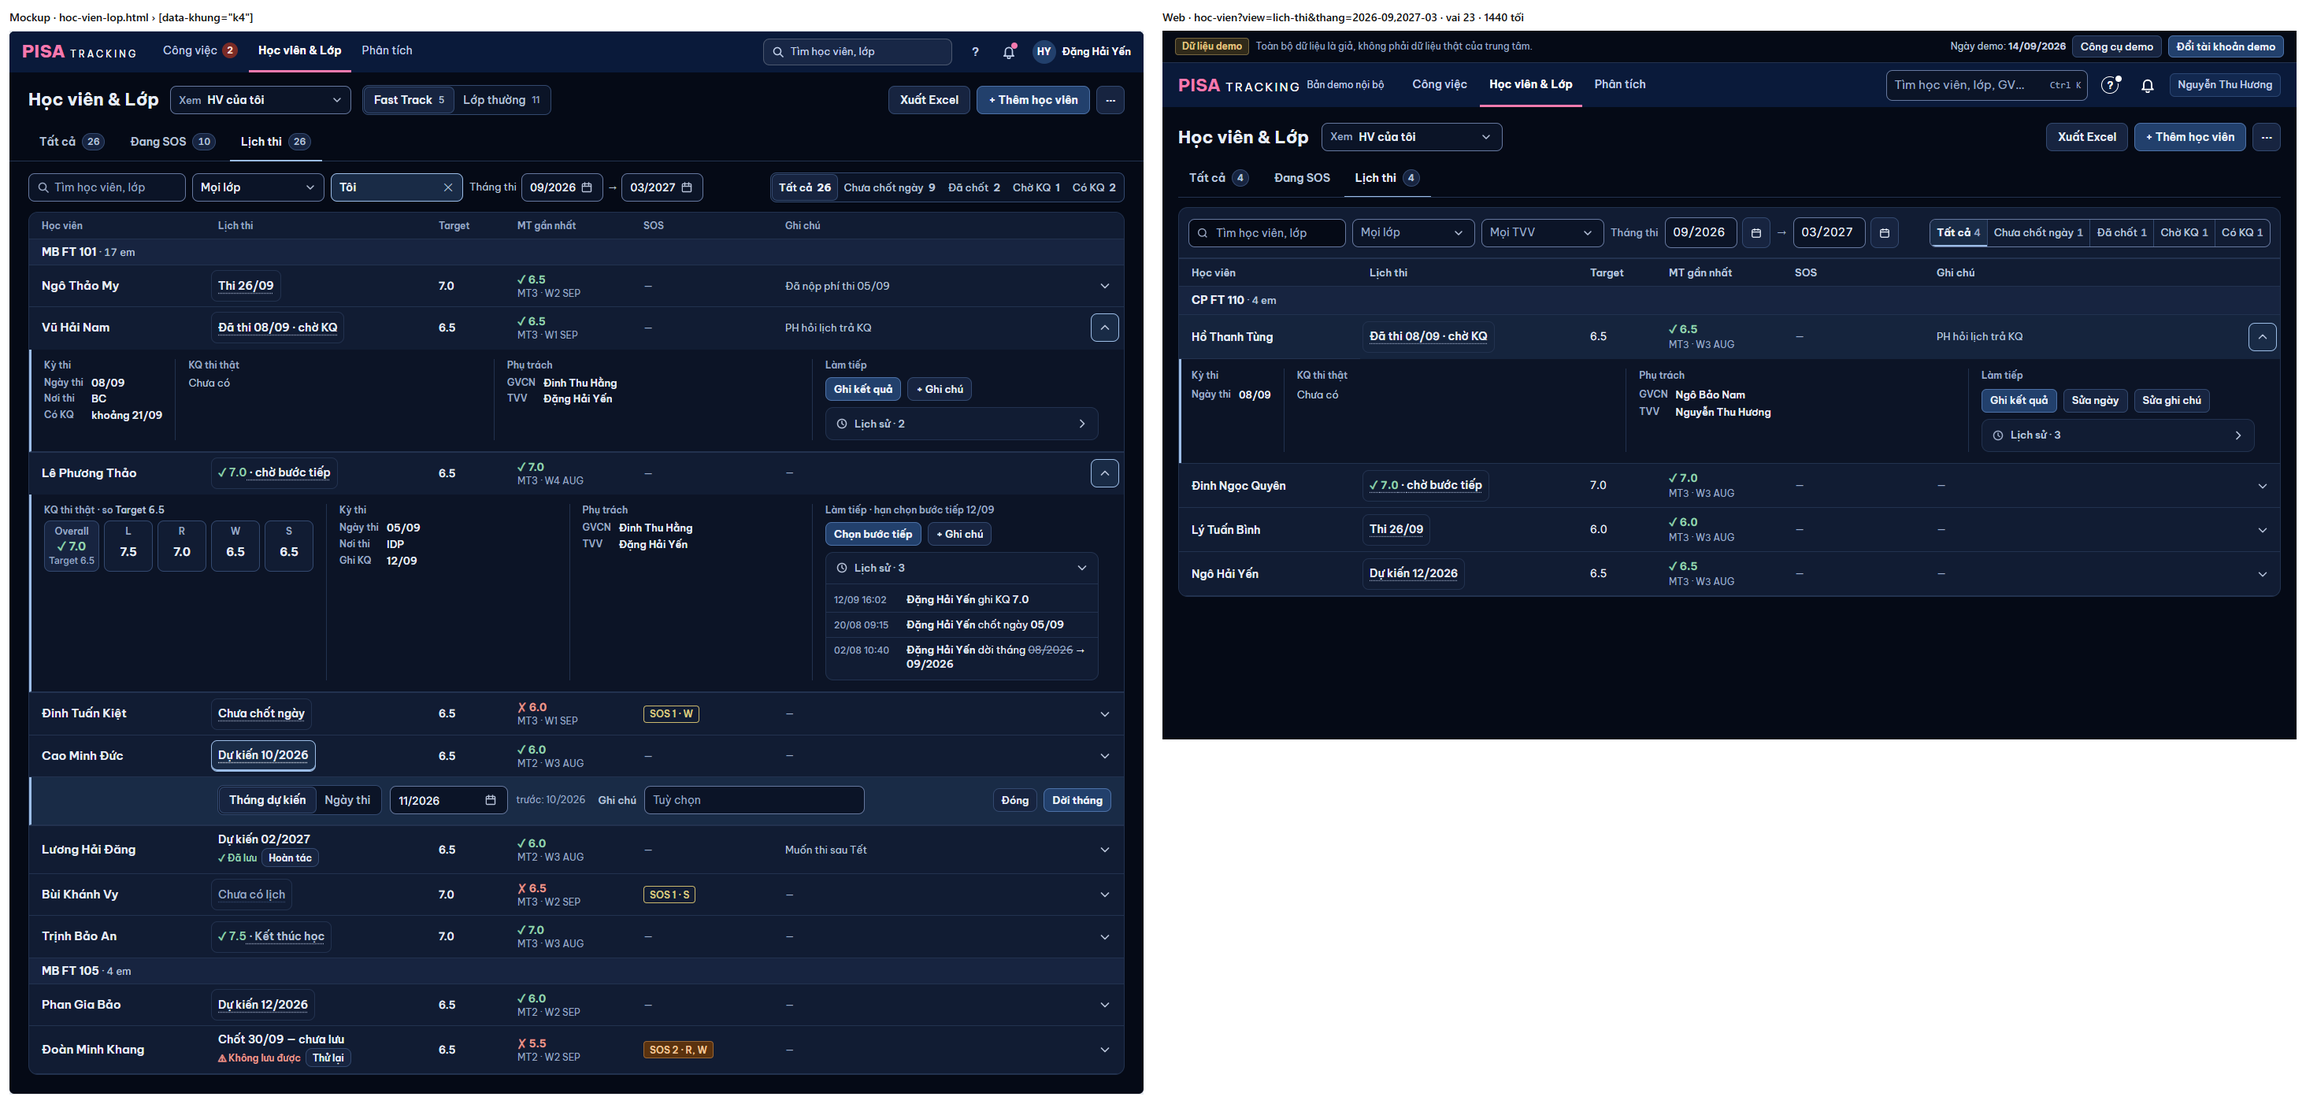
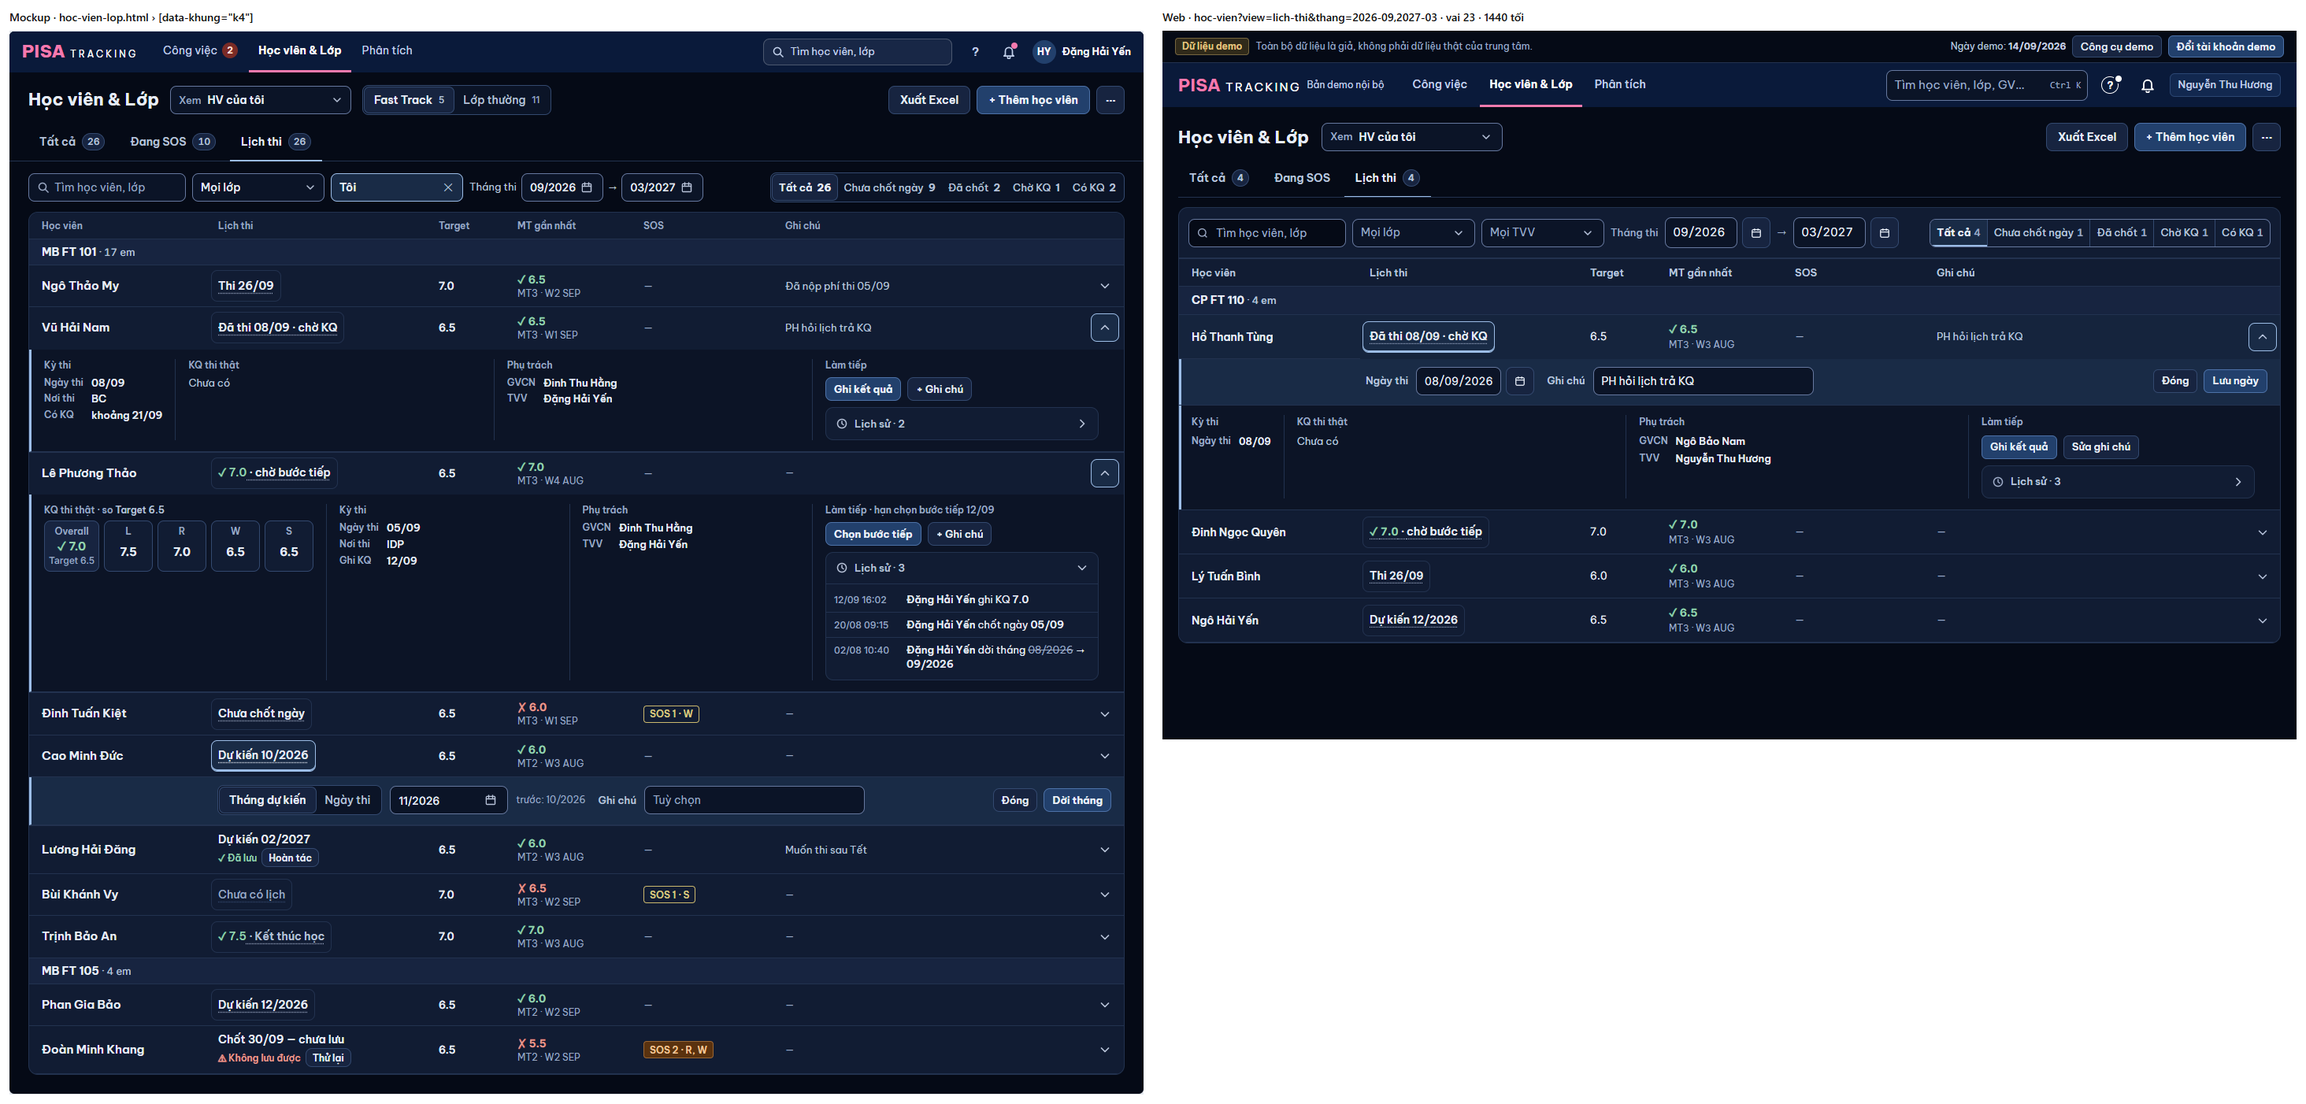
GD-13b sửa theo PTA rà #1704: Lịch sử có ghi KQ, chờ KQ một thao tác một chỗ, 375 "Đang SOS"
- lichSuLichThi: thêm nhật ký ghi KQ thi thật (cycle.thi_that) vào cùng câu, cùng chỉ mục — 0 câu thêm
- Chờ KQ: bấm ngày thi → hộp sửa ngày; Ghi kết quả ở Làm tiếp; bỏ nút "Sửa ngày" lặp
- 375: tab "Đang SOS" một tên như 1440
- Chụp lại cap-k4-co-kq / cap-k4-cho-kq / cap-k8b + zoom phần mở có KQ; khop-khac cập nhật

Changed region(s): [[0.4973, 0.3067, 0.9945, 0.5827]]

diff --git a/web/src/modules/students/HangLichThi.tsx b/web/src/modules/students/HangLichThi.tsx
@@ -29,7 +29,7 @@ export type KqThiThat = {
   kn: { L: number | null; R: number | null; W: number | null; S: number | null } | null; ngayKq: string | null;
 };
 export type CaseMoHang = { id: number; kyNang: string | null; sos: number | null; soPa: number };
-export type DongLichSu = { luc: string; ai: string | null; ketLuan: string | null; ngay: string | null; ghiChu: string | null };
+export type DongLichSu = { luc: string; ai: string | null; ketLuan: string | null; ngay: string | null; ghiChu: string | null; kq?: string | null };
 export type Hang = {
   studentId: number; cycleId: number | null; ten: string; ma: string; classId: number; classCode: string; thuong: boolean; gvcn: string | null; tvv: string | null;
   target: number | null; kck: boolean; standing: KetQuaVao | null;
@@ -76,7 +76,8 @@ export const laHop = (nut: ThaoTacLichThi) => MO_HOP.includes(nut);
 export function viecGiaTri(r: HangHien): ThaoTacLichThi | null {
   if (!r.coTheSua || !r.cycleId) return null;
   const { chinh, phu } = thaoTacLichThi(r.buoc, !r.thuong);
-  if (chinh && !laHop(chinh)) return chinh;   // chờ KQ → Ghi KQ, có KQ → Bước tiếp (panel Sau thi) — mockup K4 `data-hop="kq"`
+  /* Có KQ → Bước tiếp / Sửa KQ (panel Sau thi). Chờ KQ: giá trị là NGÀY thi → hộp sửa ngày; Ghi kết quả ở "Làm tiếp" (PTA rà #1704: một thao tác một chỗ). */
+  if (chinh && !laHop(chinh) && r.buoc !== 'cho-kq') return chinh;
   const ds = [chinh, ...phu].filter((x): x is ThaoTacLichThi => !!x);
   if (ds.some(laHop)) return r.buoc === 'chua-chot-ngay' || r.buoc === 'da-chot-ngay' || r.buoc === 'cho-kq' ? (r.coNgay ? 'sua-ngay' : 'chot-ngay') : r.lichThi.thang ? 'doi-thang' : 'dat-thang';
   return ds[0] ?? null;
@@ -237,7 +238,7 @@ export function HopLich({ r, nut, onHuy, onLuu, the }: { r: HangHien; nut: ThaoT
 }
 
 const CHU_KET_LUAN: Record<string, string> = {
-  'chot-ngay': t('chốt ngày'), 'chuyen-thang': t('dời tháng'), 'giu-thang': t('giữ tháng'), 'can-xac-nhan': t('chưa kết luận'), 'bo-lich': t('bỏ tháng thi'),
+  'chot-ngay': t('chốt ngày'), 'chuyen-thang': t('dời tháng'), 'ghi-kq': t('ghi KQ'), 'giu-thang': t('giữ tháng'), 'can-xac-nhan': t('chưa kết luận'), 'bo-lich': t('bỏ tháng thi'),
 };
 const mocLs = (x: DongLichSu, homNay: string) => (x.ngay ? (x.ngay.length === 7 ? nhanThang(x.ngay) : shortDate(x.ngay, homNay)) : null);
 
@@ -357,8 +358,6 @@ export function DaiMo({ r, hanh }: { r: HangHien; hanh: Hanh }) {
       {r.coTheSua && (
         <span className="lt-lam-n">
           {nutChinh && <button type="button" className="btn btn-sm nut-nho btn-primary" onClick={() => hanh.bam(r, nutChinh)}>{nutChinh === 'ghi-kq' ? t('Ghi kết quả') : t('Chọn bước tiếp')}</button>}
-          {/* Chờ KQ: giá trị lịch thi mở Ghi KQ → sửa ngày thi (đã thi nhầm ngày) giữ ở đây. */}
-          {nutChinh === 'ghi-kq' && <button type="button" className="btn btn-sm nut-nho" aria-expanded={hanh.hop?.id === r.studentId} onClick={() => hanh.bam(r, 'sua-ngay')}>{t('Sửa ngày')}</button>}
           <button type="button" className="btn btn-sm nut-nho" onClick={() => hanh.suaGhi(r.studentId)}>{r.luu?.ghiChu ? t('Sửa ghi chú') : `+ ${t('Ghi chú')}`}</button>
         </span>
       )}
@@ -366,7 +365,7 @@ export function DaiMo({ r, hanh }: { r: HangHien; hanh: Hanh }) {
         {canDu && day.loading ? <p className="ls-rong">{t('Đang tải')}…</p> : (
           <DsLichSu dong={ls.map((x, i) => ({
             key: i, gio: lucNgan(x.luc), ai: x.ai,
-            viec: x.ketLuan ? CHU_KET_LUAN[x.ketLuan] ?? x.ketLuan : t('đổi lịch'), moi: mocLs(x, homNay),
+            viec: x.ketLuan ? CHU_KET_LUAN[x.ketLuan] ?? x.ketLuan : t('đổi lịch'), moi: x.kq ?? mocLs(x, homNay),
             phu: [x.ghiChu ? `“${x.ghiChu}”` : null],
           }))} />
         )}

diff --git a/server/src/classes/lichThi.ts b/server/src/classes/lichThi.ts
@@ -198,9 +198,9 @@ export function danhSachLichThi(
   return { thang, rows };
 }
 
-export type DongLichSu = { luc: string; ai: string | null; ketLuan: string | null; ngay: string | null; ghiChu: string | null };
+export type DongLichSu = { luc: string; ai: string | null; ketLuan: string | null; ngay: string | null; ghiChu: string | null; kq?: string | null };
 /**
- * Lịch sử lịch thi của các lộ trình (mới trước, tối đa `gioiHan` dòng mỗi lộ trình) — theo lô. Hai câu, mỗi câu theo chỉ mục `idx_audit_entity` (entity_type, entity_id) —
+ * Lịch sử lịch thi của các lộ trình (đổi tháng / ngày · kết luận + ghi chú · ghi KQ thi thật; mới trước, tối đa `gioiHan` dòng mỗi lộ trình) — theo lô. Hai câu, mỗi câu theo chỉ mục `idx_audit_entity` (entity_type, entity_id) —
  * không OR giữa hai loại (Turso quét cả bảng nhật ký). Dùng cho dải mở hàng (3 dòng) và "Xem toàn bộ" (một lộ trình, khi bấm).
  */
 export function lichSuLichThi(cyc: readonly number[], gioiHan: number, dem?: Map<number, number>): Map<number, DongLichSu[]> {
@@ -212,9 +212,10 @@ export function lichSuLichThi(cyc: readonly number[], gioiHan: number, dem?: Map
           WHERE a.entity_type = 'lich_thi' AND a.entity_id IN (${ph}) AND a.action = 'lich_thi.luu'`).all(...lo) as any[],
       ...db().prepare(
         `SELECT a.id, a.entity_id, a.action, a.created_at, u.full_name AS ai, a.after_json FROM audit_logs a LEFT JOIN users u ON u.id = a.actor_user_id
-          WHERE a.entity_type = 'learning_cycle' AND a.entity_id IN (${ph}) AND a.action = 'cycle.update'
-            AND (json_extract(a.after_json, '$.exam_date') IS NOT json_extract(a.before_json, '$.exam_date')
-              OR json_extract(a.after_json, '$.exam_month') IS NOT json_extract(a.before_json, '$.exam_month'))`).all(...lo) as any[],
+          WHERE a.entity_type = 'learning_cycle' AND a.entity_id IN (${ph})
+            AND ((a.action = 'cycle.update' AND (json_extract(a.after_json, '$.exam_date') IS NOT json_extract(a.before_json, '$.exam_date')
+              OR json_extract(a.after_json, '$.exam_month') IS NOT json_extract(a.before_json, '$.exam_month')))
+              OR a.action = 'cycle.thi_that')`).all(...lo) as any[],   /* GD-13b: + ghi KQ thi thật (cùng câu, cùng chỉ mục) */
     ].sort((x, y) => y.id - x.id);
     for (const x of nk) {
       const ls = out.get(x.entity_id) ?? [];
@@ -224,6 +225,9 @@ export function lichSuLichThi(cyc: readonly number[], gioiHan: number, dem?: Map
       if (ls.length >= gioiHan) continue;
       if (x.action === 'lich_thi.luu') {
         ls.push({ luc: x.created_at, ai: x.ai ?? null, ketLuan: sau.ketLuan ?? null, ngay: null, ghiChu: sau.ghiChu ?? null });
+      } else if (x.action === 'cycle.thi_that') {
+        const kq = sau.khongThi ? 'Không thi' : sau.ovr != null ? Number(sau.ovr).toFixed(1) : null;
+        ls.push({ luc: x.created_at, ai: x.ai ?? null, ketLuan: 'ghi-kq', ngay: null, ghiChu: null, kq });
       } else {
         const moc = sau.exam_date ?? sau.exam_month ?? null;
         ls.push({ luc: x.created_at, ai: x.ai ?? null, ketLuan: moc ? null : 'bo-lich', ngay: moc, ghiChu: null });

diff --git a/web/src/modules/students/StudentsPage.tsx b/web/src/modules/students/StudentsPage.tsx
@@ -489,10 +489,10 @@ function TrangTheoLop({ vai }: { vai: VaiXemHocVien | null }) {
       </div>
       {dienThoai && (oXem || chonKhung) && <div className="flex items-center gap-2 [&>.doan]:flex-1">{oXem}{chonKhung}</div>}
 
-      {/* PTA rà #1690: 375 nhãn tab gọn (SOS · Phân công) để cả hàng tab thấy được, không cuộn mất "Tất cả". */}
+      {/* PTA rà #1690: 375 nhãn "Phân công" gọn. PTA rà #1704: "Đang SOS" một tên ở mọi cỡ màn (mockup K8b "Đang SOS 10"); hàng tab cuộn ngang khi chật. */}
       <HangTab panelId="hvl-vung" ariaLabel={t('Chế độ xem')} value={goc} onChange={doiGoc} tabs={[
         { key: 'tat-ca', label: t('Tất cả'), so: data && (!laVai || vaiTrang) ? soEm(goc0) : null },
-        ...(admin ? [] : [{ key: 'sos' as const, label: dienThoai ? 'SOS' : t('Đang SOS'), so: sos.data ? soEm(sosTat.map((r) => ({ id: r.studentId }))) : null }]),
+        ...(admin ? [] : [{ key: 'sos' as const, label: t('Đang SOS'), so: sos.data ? soEm(sosTat.map((r) => ({ id: r.studentId }))) : null }]),
         { key: 'lich-thi', label: t('Lịch thi'), so: data ? demLich : null },
         ...(coGocPc ? [{ key: 'phan-cong' as const, label: dienThoai ? t('Phân công') : t('Phân công GV') }] : []),
       ]} />

diff --git a/shared/i18n/en/gd13b.ts b/shared/i18n/en/gd13b.ts
@@ -12,6 +12,7 @@ export const EN_GD13B = {
   'Làm tiếp': 'Next',
   'Sửa ghi chú': 'Edit note',
   'đổi lịch': 'schedule changed',
+  'ghi KQ': 'recorded result',
   /* Hướng dẫn "?" — tab Lịch thi (GV · QL · TVV) */
   'Tab Lịch thi': 'Exam schedule tab',
   'Lọc theo trạng thái thi: <b>Tất cả</b> · <b>Chưa chốt ngày</b> · <b>Đã chốt</b> · <b>Chờ KQ</b> · <b>Có KQ</b>.': 'Filter by exam status: <b>All</b> · <b>Date not set</b> · <b>Date set</b> · <b>Awaiting result</b> · <b>Has result</b>.',

diff --git a/docs/anh/gd13b-lich-thi/khop-khac.md b/docs/anh/gd13b-lich-thi/khop-khac.md
@@ -15,6 +15,7 @@ Dữ liệu demo để đủ trạng thái: TVV 23 chốt ngày 26/09 cho một 
 | `web-k4-da-luu-tvv-1440-toi.png` | K4 hàng "✓ Đã lưu · Hoàn tác" | sau "Dời tháng" |
 | `web-k4-loi-luu-tvv-1440-toi.png` | K4 hàng "⚠ Không lưu được · Thử lại" | lưu lỗi (giả máy chủ 503), hộp đã đóng |
 | `zoom-hang-mo-ql-1440-toi.png` | — | zoom ×2: ô lịch thi, ⌄, ô điểm ✓ / ✗, phần mở |
+| `zoom-co-kq-tvv-1440-toi.png` | — | zoom ×2: phần mở có KQ — Lịch sử · 1 (ghi KQ), Chọn bước tiếp, + Ghi chú |
 
 ## 1. Truy vết khung → thành phần → ảnh
 
@@ -26,13 +27,13 @@ Dữ liệu demo để đủ trạng thái: TVV 23 chốt ngày 26/09 cho một 
 | 4 | K4 | Ô lịch thi MỘT dòng, không dòng phụ ("chốt ngày khi tới tháng", "hạn 21/09 · thi 12/09" bỏ) | `chuLich`: Chưa có lịch · Dự kiến 10/2026 · Chưa chốt ngày · Thi 26/09 · Đã thi 08/09 · chờ KQ · ✓ 7.0 · chờ bước tiếp · ✓ 7.5 · Kết thúc học | cap-k4-* | KHỚP |
 | 5 | K4 | Giá trị bấm được: viền nhạt + gạch chấm (nhận ra cả khi không rê), mở = viền nhấn + nền nhấn + vạch đáy | `.lt-gt-nut` (cùng số đo `.gt-lt`: cao 40, bo 8, lệch −5/−9) | cap-k4-co-kq, zoom | KHỚP |
 | 6 | K4 | Bấm giá trị → hộp MỘT hàng dưới hàng thẳng cột Lịch thi: đoạn **Tháng dự kiến \| Ngày thi** · ô (`ONgay`) · "trước: …" · Ghi chú · Đóng · nút chính | `HopLich` (một hộp làm đủ 4 việc lịch); chờ KQ chỉ "Ngày thi" | cap-k4-co-kq, cap-k8b | KHỚP |
-| 7 | K4 | Đã thi → giá trị mở panel Sau thi có sẵn (Ghi KQ · Bước tiếp · Sửa KQ) | `viecGiaTri` → `PanelSauThi` (không đổi panel); chờ KQ còn nút "Sửa ngày" ở Làm tiếp (thao tác cũ) | — | KHỚP |
+| 7 | K4 | Có KQ → giá trị mở panel Sau thi có sẵn (Bước tiếp · Sửa KQ); chờ KQ → giá trị là NGÀY thi nên mở hộp sửa ngày, **Ghi kết quả** ở Làm tiếp (PTA rà #1704: một thao tác một chỗ) | `viecGiaTri` | cap-k4-cho-kq | KHỚP (xem KHÁC 8) |
 | 8 | K4 | "✓ Đã lưu · Hoàn tác" (nút) và "⚠ Không lưu được · Thử lại" (nút) ngay ô, xanh / đỏ | `.lt-luu` + `btn nut-nho` cao 24; Hoàn tác 10 giây; lỗi khi hộp mở nằm ở hộp, chữ giữ | web-k4-da-luu, web-k4-loi-luu | KHỚP |
 | 9 | K4 | Phần mở **chưa thi**: MT gần nhất (6 ô, kỳ vọng, ↑↓ so MT trước) · Hỗ trợ đang mở · Test sắp tới · Phụ trách · Làm tiếp | `DaiMo` gd `chua-thi` | cap-k4-chua-thi | KHỚP |
 | 10 | K4 | Phần mở **chờ KQ** (lời 40): Kỳ thi · KQ thi thật "Chưa có" · Phụ trách · Làm tiếp (**Ghi kết quả** · + Ghi chú · Lịch sử) — không MT gần nhất / Test sắp tới | `DaiMo` gd `cho-kq` | cap-k4-cho-kq | KHỚP (xem KHÁC 1) |
 | 11 | K4 | Phần mở **có KQ**: KQ thi thật so Target (Overall + L R W S) · Kỳ thi (Ngày thi · Ghi KQ) · Phụ trách · Làm tiếp · "hạn chọn bước tiếp" (trung tính, [XM-4]) · **Chọn bước tiếp** | `DaiMo` gd `co-kq`; 4 ô thi thật đọc từ cột đã có trong câu | cap-k4-co-kq | KHỚP (xem KHÁC 1) |
 | 12 | K4, K8b | TRÊN HÀNG mọi em vẫn có MT gần nhất (lời 42) | `CotMt` mọi trạng thái + "MT3 · W3 AUG" | cap-k4-* | KHỚP |
-| 13 | K4 | Luôn có Phụ trách · **+ Ghi chú** (hiện luôn, không cần rê) · **Lịch sử · n** chuẩn (`LichSuGap` + `DsLichSu`, GD-4c) | "+ Ghi chú" / "Sửa ghi chú" bật ô Ghi chú của hàng; n đếm từ hai câu nhật ký đã đọc (0 câu thêm), mở > 3 dòng thì đọc đủ một lần | cap-k4-cho-kq | KHỚP |
+| 13 | K4 | Luôn có Phụ trách · **+ Ghi chú** (hiện luôn, không cần rê) · **Lịch sử · n** chuẩn (`LichSuGap` + `DsLichSu`, GD-4c) — ẩn chỉ khi n = 0 thật | "+ Ghi chú" (chưa có) / "Sửa ghi chú" (đã có) — cùng quy tắc ba trạng thái; n đếm từ hai câu nhật ký đã đọc, nay gồm cả **ghi KQ thi thật** (`cycle.thi_that`, cùng câu, cùng chỉ mục — 0 câu thêm); mở > 3 dòng thì đọc đủ một lần | cap-k4-co-kq, cap-k4-cho-kq, zoom-co-kq | KHỚP |
 | 14 | K4, K5 | Lọc trạng thái thi **Tất cả · Chưa chốt ngày · Đã chốt · Chờ KQ · Có KQ** ([XM-1] chủ SP duyệt) thay "Cần làm / Tất cả" | `.doan.lt-loc-thi`; số đếm từ dữ liệu đã nạp; số 0 không bấm; hàng vừa đổi trạng thái ở lại tới khi đổi lọc | cap-k4-* | KHỚP |
 | 15 | K4 | Hàng lọc: Tìm · Mọi lớp · Mọi TVV · Tháng thi từ → đến · phải: trạng thái thi — MỘT hàng ở 1440 | Tìm 200 · ô 156 · tháng 134 (ô gõ + nút lịch) · đoạn 13 px | cap-k4-* | KHỚP |
 | 16 | K4 | Không chữ đỏ "quá hạn" (cảnh báo ở Công việc TVV) — [XM-4] | bỏ `lt-qua`, bỏ "· 1 cần làm · 1 quá hạn" ở dải lớp | cap-k4-co-kq | KHỚP |
@@ -52,6 +53,8 @@ Dữ liệu demo để đủ trạng thái: TVV 23 chốt ngày 26/09 cho một 
 4. **375 dòng ghi chú**: mockup K8b không vẽ ghi chú trên thẻ; web giữ dòng "Ghi chú: …" khi em CÓ ghi chú (thông tin đã có trên thẻ trước PR, không mất); không có thì không có dòng.
 5. **Fast Track / Lớp thường ở đầu trang TVV**: mockup K4 vẽ đoạn FT / LT; web TVV không có đoạn này từ trước (ngoài phạm vi tab).
 6. **K5 chụp bằng GV bộ môn**: GVCN của lớp SỬA ĐƯỢC lịch thi theo quyền máy chủ (F15-5), nên mockup K5 "GV chỉ xem" khớp với GV không phụ trách lớp; không đổi quyền.
+8. **Chờ KQ — bấm giá trị**: mockup K4 cho "Chờ KQ" mở thẳng Ghi kết quả; PTA rà #1704 chốt một thao tác một chỗ: giá trị (ngày thi) → sửa ngày, Ghi kết quả ở "Làm tiếp". Không mất thao tác, không nút "Sửa ngày" lặp.
+9. **375 tab "Đang SOS"**: một tên ở mọi cỡ màn (trước PR 375 ghi "SOS"); số 0 / chưa nạp thì không badge.
 7. **V22**: mockup K4 "⚠ Không lưu được" — ⚠ ở đây là lỗi lưu (không phải hạn) nên giữ ⚠ đúng V22.
 
 ## 3. Thao tác TRƯỚC → SAU
@@ -61,8 +64,8 @@ Dữ liệu demo để đủ trạng thái: TVV 23 chốt ngày 26/09 cho một 
 | 1 | "Đặt lịch ▾" › Đặt tháng dự kiến | TVV, QL, GVCN | bấm "Chưa có lịch" → hộp, đoạn **Tháng dự kiến** | không |
 | 2 | Nút chính / menu "Chốt ngày" | TVV, QL, GVCN | bấm "Chưa chốt ngày" / "Dự kiến …" → hộp, đoạn **Ngày thi** (tới tháng thì mở sẵn Ngày thi) | không |
 | 3 | "Dời tháng" | TVV, QL, GVCN | bấm "Dự kiến …" → hộp, đoạn Tháng dự kiến (nút "Dời tháng") | không |
-| 4 | "Sửa ngày" | TVV, QL, GVCN | bấm "Thi 26/09" → hộp, Ngày thi (nút "Lưu ngày"); em đã thi chờ KQ: nút **Sửa ngày** ở "Làm tiếp" (lớp thường: bấm giá trị) | không |
-| 5 | Nút chính "Ghi kết quả" | TVV, QL (FT) | bấm "Đã thi … · chờ KQ" → panel Sau thi (bước KQ); **Ghi kết quả** cũng ở "Làm tiếp" phần mở | không |
+| 4 | "Sửa ngày" | TVV, QL, GVCN | bấm "Thi 26/09" hoặc "Đã thi 08/09 · chờ KQ" → hộp, Ngày thi (nút "Lưu ngày") | không |
+| 5 | Nút chính "Ghi kết quả" | TVV, QL (FT) | nút **Ghi kết quả** ở "Làm tiếp" phần mở → panel Sau thi (bước KQ) | không |
 | 6 | Nút chính "Bước tiếp" | TVV, QL (FT) | bấm "✓ 7.0 · chờ bước tiếp" → panel Sau thi; **Chọn bước tiếp** ở "Làm tiếp" | không |
 | 7 | "Sửa KQ" | TVV, QL (FT) | bấm "✓ 7.5 · Kết thúc học" → panel Sau thi | không |
 | 8 | Ghi chú: bấm ô để sửa · "+ Ghi chú" khi rê | TVV, QL, GVCN | bấm ô để sửa (giữ) · "+ Ghi chú" / "Sửa ghi chú" ở phần mở (hiện luôn) | không |
